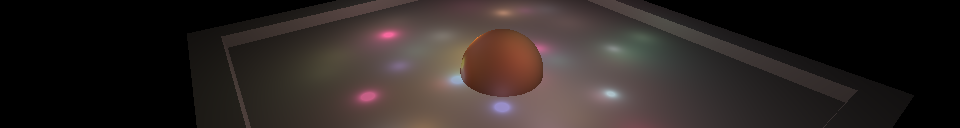
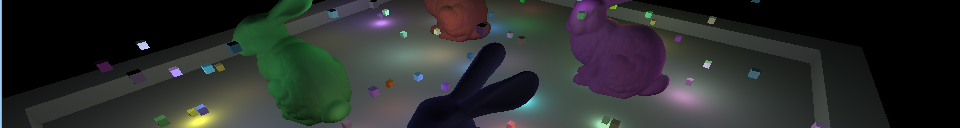
Made DeferredSample scene nicer. Also drawing a cube for each light. This last thing halves the frame rate unfortunately.

diff --git a/samples/DeferredSample/src/DeferredSample.cpp b/samples/DeferredSample/src/DeferredSample.cpp
@@ -8,7 +8,6 @@
 #include "SampleFramework/Random.h"
 #include "SampleFramework/Input.h"
 #include "Clair/Material.h"
-#include "Clair/Mesh.h"
 #include "../../data/materials/deferredGeometry.h"
 #include "../../data/materials/deferredComposite.h"
 //#include "vld.h"
@@ -25,13 +24,25 @@ void DeferredSample::createRenderTarget(Clair::RenderTarget*& outRenderTarget,
 	outRenderTarget->initialize(outTexture);
 }
 
+void DeferredSample::createObject(Clair::Mesh* mesh,
+								  const Clair::Float4& color,
+								  const Clair::Float4x4& transform) {
+	auto obj = mScene->createObject();
+	obj->setMesh(mesh);
+	obj->setMatrix(transform);
+	auto matInstance = obj->setMaterial(CLAIR_RENDER_PASS(0), mGeometryMat);
+	mGeometryCBuffer =
+		matInstance->getConstantBufferPs<Cb_materials_deferredGeometry_Ps>();
+	mGeometryCBuffer->DiffuseColor = color;
+}
+
 void DeferredSample::resetLights() {
 	for (auto& light : mLights) {
-		light.color = {Random::randomFloat(), Random::randomFloat(),
+		light.color = vec3{Random::randomFloat(), Random::randomFloat(),
 					   Random::randomFloat()};
 		light.intensity = Random::randomFloat(0.2f, 1.0f) / 15.0f;
 		light.height = Random::randomFloat(0.1f, 2.0f);
-		light.rotationRadius = Random::randomFloat(0.5f, 4.5f);
+		light.rotationRadius = Random::randomFloat(0.8f, 5.0f);
 		light.rotationSpeed = Random::randomFloat(-1.0f, 1.0f);
 		light.offset = Random::randomFloat(0.0f, 2.0f * glm::pi<float>());
 	}
@@ -58,6 +69,7 @@ bool DeferredSample::initialize(const HWND hwnd) {
 	mGBuffer->setRenderTarget(2, mGBufPosition);
 	mGBuffer->setDepthStencilTarget(mGBufDepthStencil);
 
+	// Deferred composite material
 	auto compTexData = Loader::loadBinaryData("materials/deferredComposite.cmat");
 	auto compTex = Clair::ResourceManager::createMaterial();
 	compTex->initialize(compTexData.get());
@@ -68,37 +80,45 @@ bool DeferredSample::initialize(const HWND hwnd) {
 	mDeferredCompositeMat->setTexture(2, mGBufPositionTex);
 	mCompositeCBuffer = mDeferredCompositeMat->
 		getConstantBufferPs<Cb_materials_deferredComposite_Ps>();
-	resetLights();
 
-	auto bunnyMeshData = Loader::loadBinaryData("models/sphere.cmod");
+	// Place some objects in the scene
+	auto bunnyMeshData = Loader::loadBinaryData("models/bunny.cmod");
 	auto bunnyMesh = Clair::ResourceManager::createMesh();
 	bunnyMesh->initialize(bunnyMeshData.get());
 	auto planeMeshData = Loader::loadBinaryData("models/plane.cmod");
 	auto planeMesh = Clair::ResourceManager::createMesh();
 	planeMesh->initialize(planeMeshData.get());
-
 	auto geometryMatData =
 		Loader::loadBinaryData("materials/deferredGeometry.cmat");
-	auto geometryMat = Clair::ResourceManager::createMaterial();
-	geometryMat->initialize(geometryMatData.get());
-
+	mGeometryMat = Clair::ResourceManager::createMaterial();
+	mGeometryMat->initialize(geometryMatData.get());
 	mScene = Clair::ResourceManager::createScene();
-	auto bunny = mScene->createObject();
-	bunny->setMesh(bunnyMesh);
-	bunny->setMatrix(value_ptr(translate(vec3{0.0f})));
-	auto matInstance = bunny->setMaterial(CLAIR_RENDER_PASS(0), geometryMat);
-	mGeometryCBuffer =
-		matInstance->getConstantBufferPs<Cb_materials_deferredGeometry_Ps>();
-	mGeometryCBuffer->DiffuseColor = Clair::Float4{0.8f, 0.2f, 0.1f, 1.0f};
-	auto plane = mScene->createObject();
-	plane->setMesh(planeMesh);
-	plane->setMatrix(value_ptr(scale(vec3{2.0f})));
-	auto planeMatInstance = plane->setMaterial(CLAIR_RENDER_PASS(0), geometryMat);
-	mGeometryCBuffer =
-		planeMatInstance->getConstantBufferPs<Cb_materials_deferredGeometry_Ps>();
-	mGeometryCBuffer->DiffuseColor = Clair::Float4{0.8f, 0.5f, 0.5f, 1.0f};
+	createObject(planeMesh, {1.0f, 1.0f, 1.0f, 1.0f},
+				 value_ptr(scale(vec3{2.0f})));
+	createObject(bunnyMesh, {1.0f, 0.2f, 0.2f, 1.0f},
+				 value_ptr(translate(vec3{-2.0f, 0.0f, 2.0f})));
+	createObject(bunnyMesh, {0.2f, 1.0f, 0.2f, 1.0f},
+				 value_ptr(translate(vec3{-2.0f, 0.0f, -2.0f})));
+	createObject(bunnyMesh, {0.2f, 0.2f, 1.0f, 1.0f},
+				 value_ptr(translate(vec3{2.0f, 0.0f, -2.0f})));
+	createObject(bunnyMesh, {1.0f, 0.2f, 1.0f, 1.0f},
+				 value_ptr(translate(vec3{2.0f, 0.0f, 2.0f})));
 
-	Camera::initialize({-0.27f, 1.64f, -1.79f}, 0.470f, 0.045f);
+	resetLights();
+
+	auto cubeMeshData = Loader::loadBinaryData("models/cube.cmod");
+	auto cubeMesh = Clair::ResourceManager::createMesh();
+	cubeMesh->initialize(cubeMeshData.get());
+	mLightDebugScene = Clair::ResourceManager::createScene();
+	for (auto& light : mLights) {
+		light.debugObj = mLightDebugScene->createObject();
+		light.debugObj->setMesh(cubeMesh);
+		light.debugObj->setMaterial(CLAIR_RENDER_PASS(0), mGeometryMat);
+		light.debugObj->setMatrix(value_ptr(translate(vec3{light.rotationRadius,
+			light.height, light.rotationRadius}) * scale(vec3{0.05f})));
+	}
+
+	Camera::initialize({0.0f, 5.5f, -4.0f}, 1.14f, 0.0f);
 	return true;
 }
 
@@ -120,19 +140,34 @@ void DeferredSample::update() {
 	if (Input::getKeyDown(SDL_SCANCODE_F)) {
 		resetLights();
 	}
+	if (Input::getKeyDown(SDL_SCANCODE_R)) {
+		mDrawLightDebugCubes = !mDrawLightDebugCubes;
+	}
 
 	for (int i {0}; i < NUM_LIGHTS; ++i) {
 		auto col = mLights[i].color;
 		mCompositeCBuffer->LightDiffuseColors[i] = {
-			col[0][0], col[0][1], col[0][2], mLights[i].intensity };
+			col.r, col.g, col.b, mLights[i].intensity };
 		const float p {
 			getRunningTime() * mLights[i].rotationSpeed + mLights[i].offset};
-		mCompositeCBuffer->LightPositions[i] = {
+		const vec3 lightPos {
 			cosf(p) * mLights[i].rotationRadius,
 			mLights[i].height,
-			sinf(p) * mLights[i].rotationRadius,
-			0.0f};
+			sinf(p) * mLights[i].rotationRadius
+		};
+		mCompositeCBuffer->LightPositions[i] = {
+			lightPos.x, lightPos.y, lightPos.z, 0.0f};
+
+		// Light debug objects
+		auto obj = mLights[i].debugObj;
+		obj->setMatrix(value_ptr(translate(lightPos) * scale(vec3{0.05f})));
+		auto matInst = obj->getMaterial(CLAIR_RENDER_PASS(0));
+		mGeometryCBuffer =
+			matInst->getConstantBufferPs<Cb_materials_deferredGeometry_Ps>();
+		col *= mLights[i].intensity * 100.0;
+		mGeometryCBuffer->DiffuseColor = {col.r, col.g, col.b, 0.0};
 	}
+	//CLAIR_LOG(std::to_string(1.0f / getDeltaTime()));
 }
 
 void DeferredSample::render() {
@@ -145,6 +180,9 @@ void DeferredSample::render() {
 	Clair::Renderer::setViewMatrix(value_ptr(Camera::getViewMatrix()));
 	Clair::Renderer::setCameraPosition(value_ptr(Camera::getPosition()));
 	Clair::Renderer::render(mScene);
+	if (mDrawLightDebugCubes) {
+		Clair::Renderer::render(mLightDebugScene);
+	}
 
 	// Composite
 	Clair::Renderer::setRenderTargetGroup(nullptr);

diff --git a/samples/DeferredSample/include/DeferredSample.h b/samples/DeferredSample/include/DeferredSample.h
@@ -1,10 +1,13 @@
 #pragma once
 #include "SampleFramework/SampleBase.h"
+#include <array>
 #include "Clair/Scene.h"
 #include "Clair/MaterialInstance.h"
 #include "Clair/RenderTargetGroup.h"
+#include "Clair/Mesh.h"
+#include "SampleFramework/GlmMath.h"
 #include "../../data/materials/NumLights.h"
-#include <array>
+
 
 class DeferredSample : public SampleFramework::SampleBase {
 public:
@@ -18,12 +21,17 @@ public:
 private:
 	void createRenderTarget(Clair::RenderTarget*& outRenderTarget,
 							Clair::Texture*& outTexture) const;
+	void createObject(Clair::Mesh* mesh, const Clair::Float4& color,
+					  const Clair::Float4x4& transform);
 	void resetLights();
 
 	Clair::Scene* mScene {nullptr};
+	Clair::Scene* mLightDebugScene {nullptr};
+	Clair::Material* mGeometryMat {nullptr};
 	Clair::MaterialInstance* mDeferredCompositeMat {nullptr};
 	class Cb_materials_deferredGeometry_Ps* mGeometryCBuffer {nullptr};
 	class Cb_materials_deferredComposite_Ps* mCompositeCBuffer {nullptr};
+	bool mDrawLightDebugCubes {true};
 
 	Clair::RenderTarget* mGBufAlbedo {nullptr};
 	Clair::Texture* mGBufAlbedoTex {nullptr};
@@ -36,7 +44,8 @@ private:
 
 	class Light {
 	public:
-		Clair::Float3 color {};
+		glm::vec3 color {};
+		Clair::Object* debugObj {nullptr};
 		float intensity {1.0f};
 		float height {0.0f};
 		float rotationRadius {0.0f};

diff --git a/samples/common/data/materials/deferredComposite.h b/samples/common/data/materials/deferredComposite.h
@@ -2,6 +2,6 @@
 
 class Cb_materials_deferredComposite_Ps {
 public:
-	Clair::Float4 LightDiffuseColors[128];
-	Clair::Float4 LightPositions[128];
+	Clair::Float4 LightDiffuseColors[64];
+	Clair::Float4 LightPositions[64];
 };

diff --git a/samples/common/data/materials/NumLights.h b/samples/common/data/materials/NumLights.h
@@ -1,3 +1,3 @@
 #pragma once
 
-static const int NUM_LIGHTS = 128;
+static const int NUM_LIGHTS = 64;
